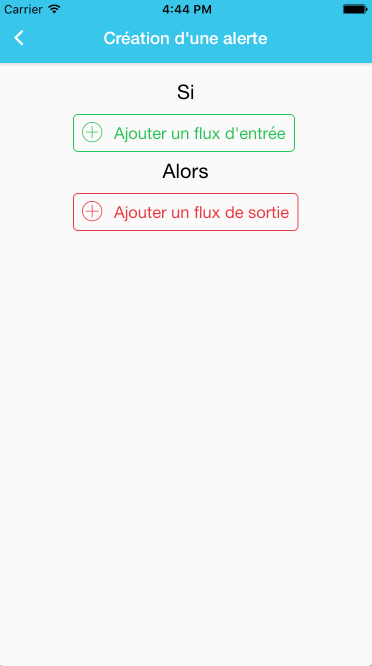
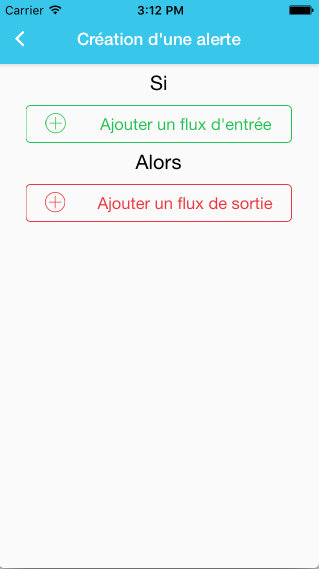
[process] mod flux and modal

diff --git a/js/components/home/index.js b/js/components/home/index.js
@@ -3,7 +3,7 @@ import React, { Component } from 'react';
 import { TouchableOpacity } from 'react-native';
 import { connect } from 'react-redux';
 import { actions } from 'react-native-navigation-redux-helpers';
-import { Container, Header, Title, Content, Text, Button, Icon } from 'native-base';
+import { Container, Header, Title, Content, Text, Button, Icon, Card, CardItem, View } from 'native-base';
 import { Grid, Row } from 'react-native-easy-grid';
 
 import { openDrawer } from '../../actions/drawer';
@@ -49,40 +49,47 @@ class Home extends Component {
         </Header>
 
         <Content>
-          <Grid style={styles.mt}>
-          <Row>
-            <Icon style={styles.iconmt} name="ios-car" />
-            <Text style={styles.imptxt}>Alerte Trafic : accident sur l'A4</Text>
-          </Row>
-          <Row style={styles.details}>
-            <Text style={styles.dettxt}>Dernière mise à jour : il y a 36 min</Text>
-          </Row>
+                   <Card>
+                       <CardItem header>
+                           <Text>Alertes Infos</Text>
+                       </CardItem>
 
-          <Row>
-            <Icon style={styles.iconmt} name="ios-train" />
-            <Text style={styles.imptxt}>Alerte Train : retard de +/- 35min sur la ligne 5</Text>
-          </Row>
-          <Row style={styles.details}>
-            <Text style={styles.dettxt}>Dernière mise à jour : il y a 6 min</Text>
-          </Row>
+                       <CardItem>
+                           <View style={styles.det}>
+                             <Text style={styles.imptxt}><Icon style={styles.iconmt} name="ios-car" /> Trafic : accident sur l'A4</Text>
+                           </View>
+                           <View style={styles.det}>
+                              <Text style={styles.dettxt}>Dernière mise à jour : il y a 36 min</Text>
+                           </View>
+                       </CardItem>
 
-          <Hr lineColor='#b3b3b3'
-              text='Météo'
-          />
+                       <CardItem>
+                           <View style={styles.det}>
+                             <Text style={styles.imptxt}><Icon style={styles.iconmt} name="ios-train" /> Train : retard de +/- 35min sur la ligne 5</Text>
+                           </View>
+                           <View style={styles.det}>
+                              <Text style={styles.dettxt}>Dernière mise à jour : il y a 6 min</Text>
+                           </View>
+                       </CardItem>
 
-          <Row style={{paddingTop:20}}>
-            <Icon style={styles.iconmt} name="ios-thunderstorm-outline" />
-            <Text style={styles.imptxt}>Alerte Météo : orage prévu vers 17h</Text>
-          </Row>
-          <Row style={styles.details}>
-            <Text style={styles.dettxt}>Dernière mise à jour : il y a 11 min</Text>
-          </Row>
-          </Grid>
+                       <CardItem header>
+                           <Text>Météo</Text>
+                       </CardItem>
 
-          <Button style={styles.alertbtn} onPress={() => this.pushRoute('blankPage')}>
-            +
-          </Button>
-        </Content>
+                       <CardItem>
+                          <View style={styles.det}>
+                             <Text style={styles.imptxt}><Icon style={styles.iconmt} name="ios-thunderstorm-outline" /> Alerte : orage prévu vers 17h</Text>
+                          </View>
+                          <View style={styles.det}>
+                             <Text style={styles.dettxt}>Dernière mise à jour : il y a 11 min</Text>
+                          </View>
+                       </CardItem>
+                  </Card>
+
+                  <Button style={styles.alertbtn} onPress={() => this.pushRoute('blankPage')}>
+                    +
+                  </Button>
+               </Content>
       </Container>
     );
   }

diff --git a/js/components/blankPage/index.js b/js/components/blankPage/index.js
@@ -2,7 +2,7 @@
 import React, { Component } from 'react';
 import { connect } from 'react-redux';
 import { actions } from 'react-native-navigation-redux-helpers';
-import { Container, Header, Title, Content, Text, Button, Icon } from 'native-base';
+import { Container, Header, Title, Content, Text, Button, Icon, View } from 'native-base';
 import Modal from 'react-native-root-modal';
 
 import { openDrawer } from '../../actions/drawer';
@@ -62,9 +62,9 @@ class BlankPage extends Component {
 
         <Content style={styles.cont}>
           <Text style={styles.txt}>Si</Text>
-          <Button bordered large success style={styles.btn} onPress={this.showModal}><Icon name="ios-add-circle-outline"/> Ajouter un flux d'entrée</Button>
+          <Button bordered success style={styles.btn} onPress={this.showModal}><Icon name="ios-add-circle-outline"/> Ajouter un flux d'entrée</Button>
           <Text style={styles.txt}>Alors</Text>
-          <Button bordered large danger style={styles.btn}><Icon name="ios-add-circle-outline"/> Ajouter un flux de sortie</Button>
+          <Button bordered danger style={styles.btn}><Icon name="ios-add-circle-outline"/> Ajouter un flux de sortie</Button>
 
             <Modal
               style={{
@@ -72,12 +72,19 @@ class BlankPage extends Component {
                   right: 0,
                   bottom: 0,
                   left: 0,
-                  backgroundColor: 'rgba(0, 0, 0, 0.2)',
+                  backgroundColor: 'rgba(0, 0, 0, 0.4)',
               }}
               visible={this.state.visible}>
-              <Button style={styles.close} danger onPress={this.hideModal}>
+              <Button style={styles.close} onPress={this.hideModal}>
                 <Icon name='ios-close-circle' />
               </Button>
+              <View style={{alignSelf:'center',width:null}}>
+                <Button style={styles.inflow} large info>Météo</Button>
+                <Button style={styles.inflow} large info>Trafic Routier</Button>
+                <Button style={styles.inflow} large info>Trafic Ferroviaire</Button>
+                <Button style={styles.inflow} large info>Trafic Bus</Button>
+                <Button style={styles.inflow} large info>Stations de vélos</Button>
+              </View>
             </Modal>
         </Content>
       </Container>

diff --git a/js/components/home/styles.js b/js/components/home/styles.js
@@ -9,9 +9,8 @@ module.exports = StyleSheet.create({
   container: {
     backgroundColor: '#FBFAFA',
   },
-  row: {
-    flex: 1,
-    alignItems: 'center',
+  cont:{
+    width: deviceWidth / 1.2,
   },
   text: {
     fontSize: 20,
@@ -28,11 +27,11 @@ module.exports = StyleSheet.create({
   },
   imptxt: {
     fontWeight: 'bold',
-    paddingLeft: 10,
+    fontSize: 14
   },
-  details: {
-    paddingLeft: 30,
-    paddingBottom: 20
+  det: {
+    width:null,
+    height:null,
   },
   dettxt: {
     color: 'grey',

diff --git a/js/components/blankPage/styles.js b/js/components/blankPage/styles.js
@@ -23,8 +23,14 @@ module.exports = StyleSheet.create({
     width: deviceWidth / 1.2,
   },
   close: {
+      backgroundColor: '#222',
       position: 'absolute',
       right: 20,
       top: 40,
+  },
+  inflow:{
+    width: deviceWidth / 1.8,
+    alignItems: 'flex-start',
+    marginTop: 40
   }
 });
